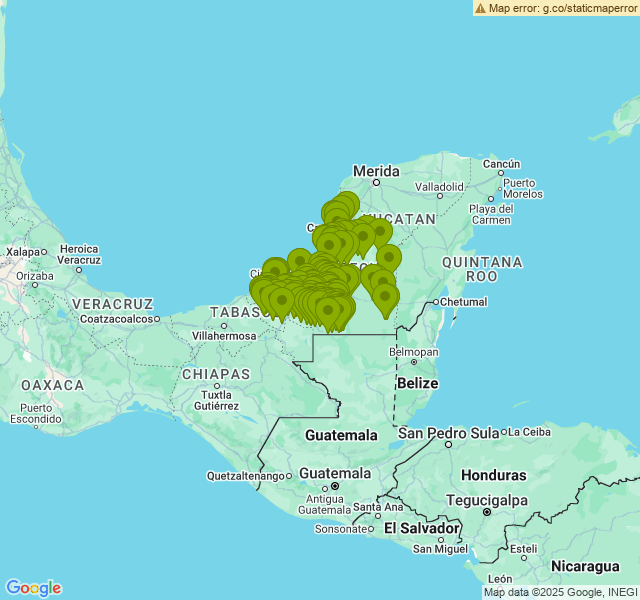
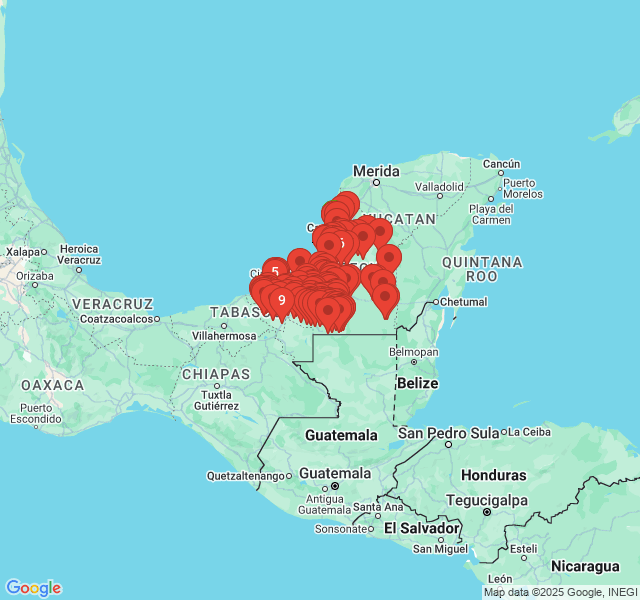
Gis
Gis corregido

Changed region(s): [[0.375, 0.3, 0.625, 0.57], [0.7188, 0.0, 1.0, 0.03]]

diff --git a/EE.py b/EE.py
@@ -181,27 +181,30 @@ class EquipamientoScreen(BoxLayout):
             return None
 
     def display_route_on_map(self, optimized_route, api_key):
-        # Convertir los índices a coordenadas de las localidades (incluye el punto inicial)
+        # Convertir índices a coordenadas
         waypoints = [
             "{},{}".format(self.available_localidades[idx-1][2], self.available_localidades[idx-1][3])
             if idx != 0 else "19.847811,-90.535945"
             for idx in optimized_route
         ]
 
-        # Crear marcadores para las localidades disponibles en el orden optimizado
-        markers = "|".join([
+        # Crear marcadores para las localidades optimizadas
+        markers = [
             f"color:red|label:{i+1}|{self.available_localidades[idx-1][2]},{self.available_localidades[idx-1][3]}"
             if idx != 0 else f"color:green|label:Inicio|19.847811,-90.535945"
             for i, idx in enumerate(optimized_route)
-        ])
+        ]
 
-        # Calcular el centro geográfico del mapa
+        # Concatenar todos los marcadores
+        markers_param = "&markers=".join(markers)
+
+        # Calcular el centro geográfico
         latitudes = [float(wp.split(",")[0]) for wp in waypoints]
         longitudes = [float(wp.split(",")[1]) for wp in waypoints]
         center_lat = sum(latitudes) / len(latitudes)
         center_lng = sum(longitudes) / len(longitudes)
 
-        # Ajustar el nivel de zoom automáticamente
+        # Ajustar zoom más refinado
         lat_range = max(latitudes) - min(latitudes)
         lng_range = max(longitudes) - min(longitudes)
         max_range = max(lat_range, lng_range)
@@ -217,8 +220,8 @@ class EquipamientoScreen(BoxLayout):
         else:
             zoom = 6
 
-        # Generar la URL del mapa con marcadores
-        map_url = f"https://maps.googleapis.com/maps/api/staticmap?size=800x600&markers={markers}&center={center_lat},{center_lng}&zoom={zoom}&key={api_key}"
+        # Generar la URL para el mapa
+        map_url = f"https://maps.googleapis.com/maps/api/staticmap?size=800x600&center={center_lat},{center_lng}&zoom={zoom}&{markers_param}&key={api_key}"
 
         # Descargar la imagen del mapa
         image_path = "map_image.png"
@@ -237,7 +240,7 @@ class EquipamientoScreen(BoxLayout):
 
         # Mostrar detalles de los viajes en un Popup
         self.display_travel_directions(optimized_route, api_key)
-        
+
     def display_travel_directions(self, optimized_route, api_key):
         """
         Mostrar un popup con la información de la ruta optimizada.

diff --git a/estimaciontallas.py b/estimaciontallas.py
@@ -143,7 +143,6 @@ class EstimacionTallasScreen(BoxLayout):
         except Exception as err:
             return f"Error al realizar los cálculos: {err}"
 
-
     def show_popup(self, title, message):
         """Muestra un popup con el mensaje proporcionado."""
         popup = Popup(title=title,
